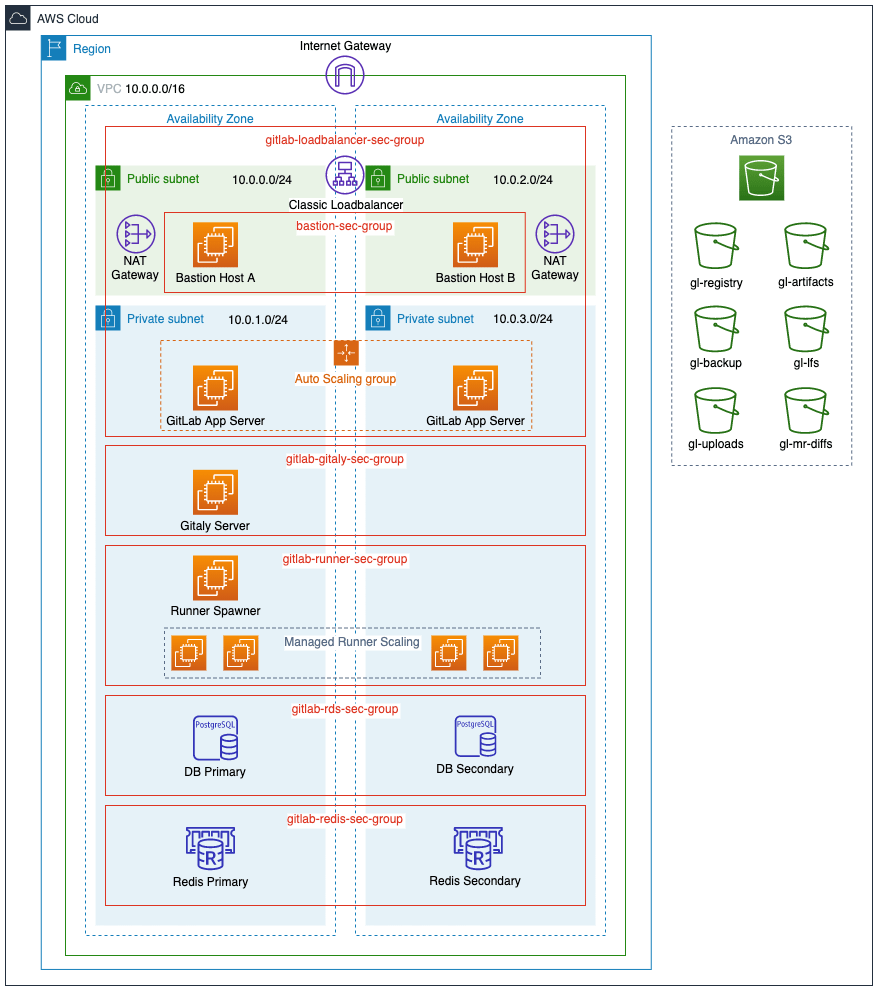
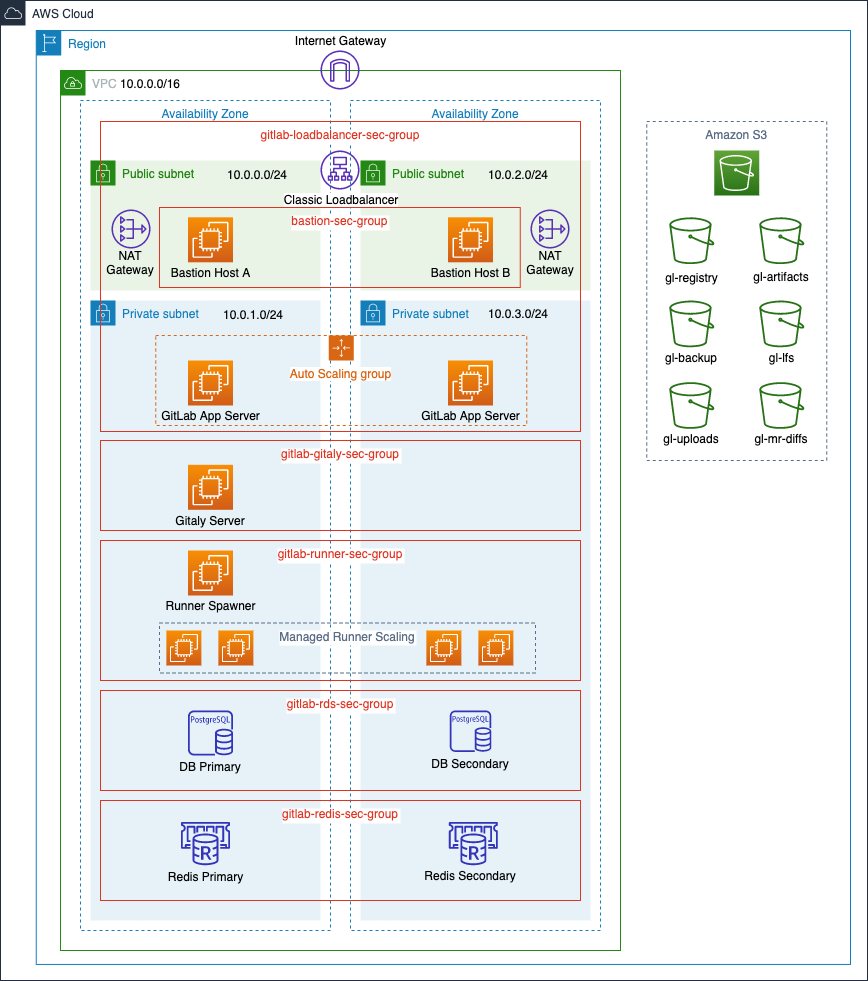
Update architecture diagram and network section

Changed region(s): [[0.0, 0.0, 1.0, 1.0], [0.3111, 0.5199, 0.4666, 0.581], [0.7154, 0.0306, 0.7465, 0.0612]]

diff --git a/doc/install/aws/index.md b/doc/install/aws/index.md
@@ -12,9 +12,7 @@ For organizations with 300 users or less, the recommended AWS installation metho
 
 ## Introduction
 
-GitLab on AWS can leverage many of the services that are already
-configurable. These services offer a great deal of
-flexibility and can be adapted to the needs of most companies.
+For the most part, we'll make use of Omnibus GitLab in our setup, but we'll also leverage native AWS services. Instead of using the Omnibus bundled PostgreSQL and Redis, we will use AWS RDS and ElastiCache.
 
 In this guide, we'll go through a multi-node setup where we'll start by
 configuring our Virtual Private Cloud and subnets to later integrate
@@ -225,16 +223,18 @@ We also need to create two private route tables so that instances in each privat
 
 ## Load Balancer
 
+We'll create a load balancer to evenly distribute inbound traffic on ports `80` and `443` across our GitLab application servers. Based the on the [scaling policies](#create-an-auto-scaling-group) we'll create later, instances will be added to or removed from our load balancer as needed. Additionally, the load balance will perform health checks on our instances.
+
 On the EC2 dashboard, look for Load Balancer in the left navigation bar:
 
 1. Click the **Create Load Balancer** button.
    1. Choose the **Classic Load Balancer**.
    1. Give it a name (we'll use `gitlab-loadbalancer`) and for the **Create LB Inside** option, select `gitlab-vpc` from the dropdown menu.
    1. In the **Listeners** section, set HTTP port 80, HTTPS port 443, and TCP port 22 for both load balancer and instance protocols and ports.
-   1. In the **Select Subnets** section, select both public subnets from the list.
-1. Click **Assign Security Groups** and select **Create a new security group**, give it a name
+   1. In the **Select Subnets** section, select both public subnets from the list so that the load balancer can route traffic to both availability zones.
+1. We'll add a security group for our load balancer to act as a firewall to control what traffic is allowed through. Click **Assign Security Groups** and select **Create a new security group**, give it a name
    (we'll use `gitlab-loadbalancer-sec-group`) and description, and allow both HTTP and HTTPS traffic
-   from anywhere (`0.0.0.0/0, ::/0`). Also allow SSH traffic from a single IP address or an IP address range in CIDR notation.
+   from anywhere (`0.0.0.0/0, ::/0`). Also allow SSH traffic, select a custom source, and add a single trusted IP address or an IP address range in CIDR notation. This will allow users to perform Git actions over SSH.
 1. Click **Configure Security Settings** and set the following:
    1. Select an SSL/TLS certificate from ACM or upload a certificate to IAM.
    1. Under **Select a Cipher**, pick a predefined security policy from the dropdown. You can see a breakdown of [Predefined SSL Security Policies for Classic Load Balancers](https://docs.aws.amazon.com/elasticloadbalancing/latest/classic/elb-security-policy-table.html) in the AWS docs. Check the GitLab codebase for a list of [supported SSL ciphers and protocols](https://gitlab.com/gitlab-org/gitlab/-/blob/9ee7ad433269b37251e0dd5b5e00a0f00d8126b4/lib/support/nginx/gitlab-ssl#L97-99).
@@ -261,11 +261,16 @@ On the Route 53 dashboard, click **Hosted zones** in the left navigation bar:
 1. Click **Create Record Set** and provide the following values:
     1. **Name:** Use the domain name (the default value) or enter a subdomain.
     1. **Type:** Select **A - IPv4 address**.
+    1. **Alias:** Defaults to **No**. Select **Yes**.
     1. **Alias Target:** Find the **ELB Classic Load Balancers** section and select the classic load balancer we created earlier.
     1. **Routing Policy:** We'll use **Simple** but you can choose a different policy based on your use case.
     1. **Evaluate Target Health:** We'll set this to **No** but you can choose to have the load balancer route traffic based on target health.
     1. Click **Create**.
-1. Update your DNS records with your domain registrar. The steps for doing this vary depending on which registrar you use and is beyond the scope of this guide.
+1. If you registered your domain through Route 53, you're done. If you used a different domain registrar, you need to update your DNS records with your domain registrar. You'll need to:
+   1. Click on **Hosted zones** and select the domain you added above.
+   1. You'll see a list of `NS` records. From your domain registrar's admin panel, add each of these as `NS` records to your domain's DNS records. These steps may vary between domain registrars. If you're stuck, Google **"name of your registrar" add dns records** and you should find a help article specific to your domain registrar.
+
+The steps for doing this vary depending on which registrar you use and is beyond the scope of this guide.
 
 ## PostgreSQL with RDS
 
